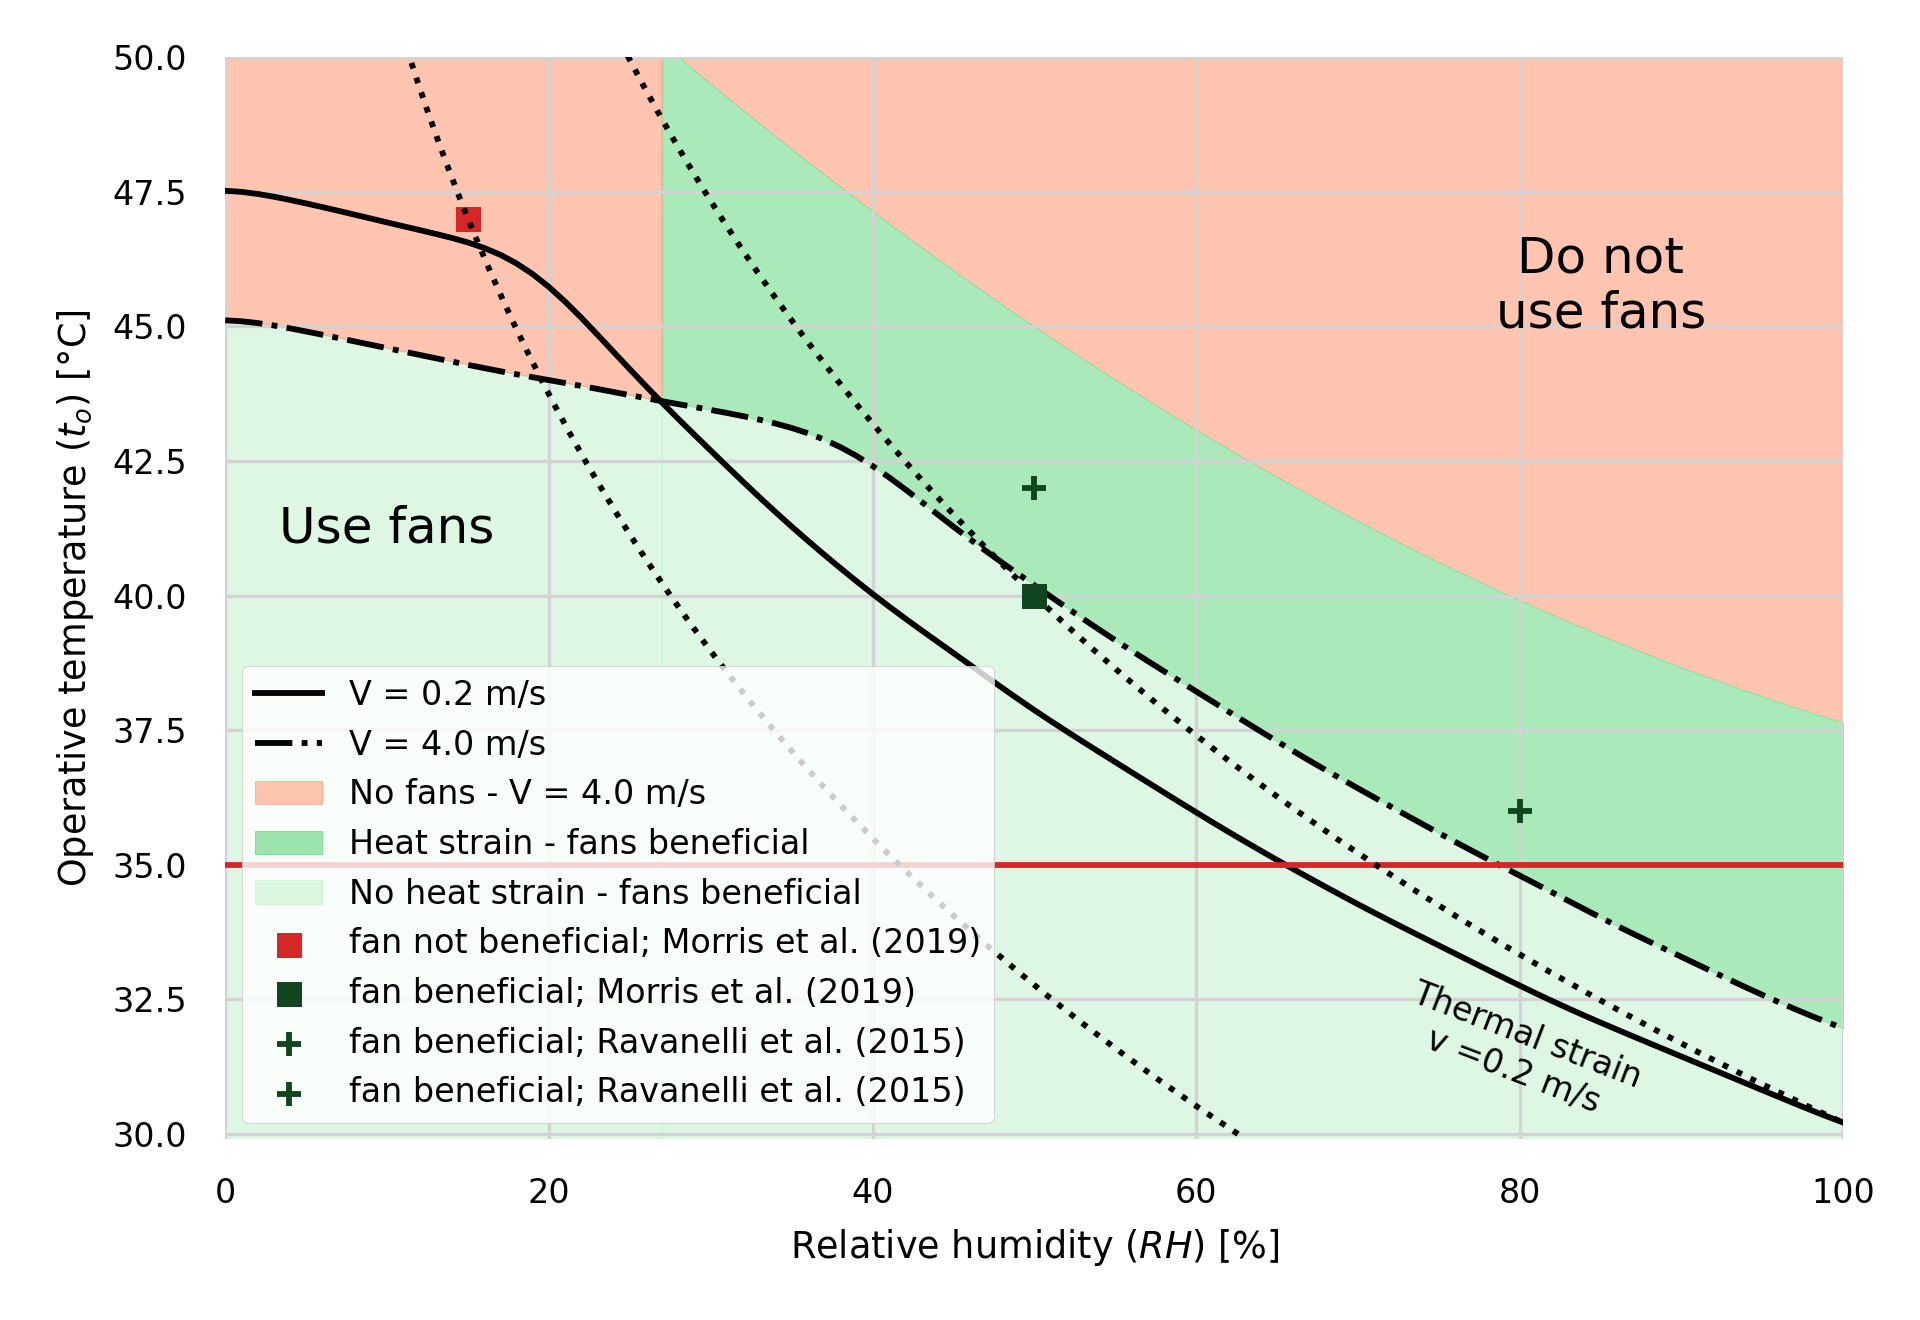
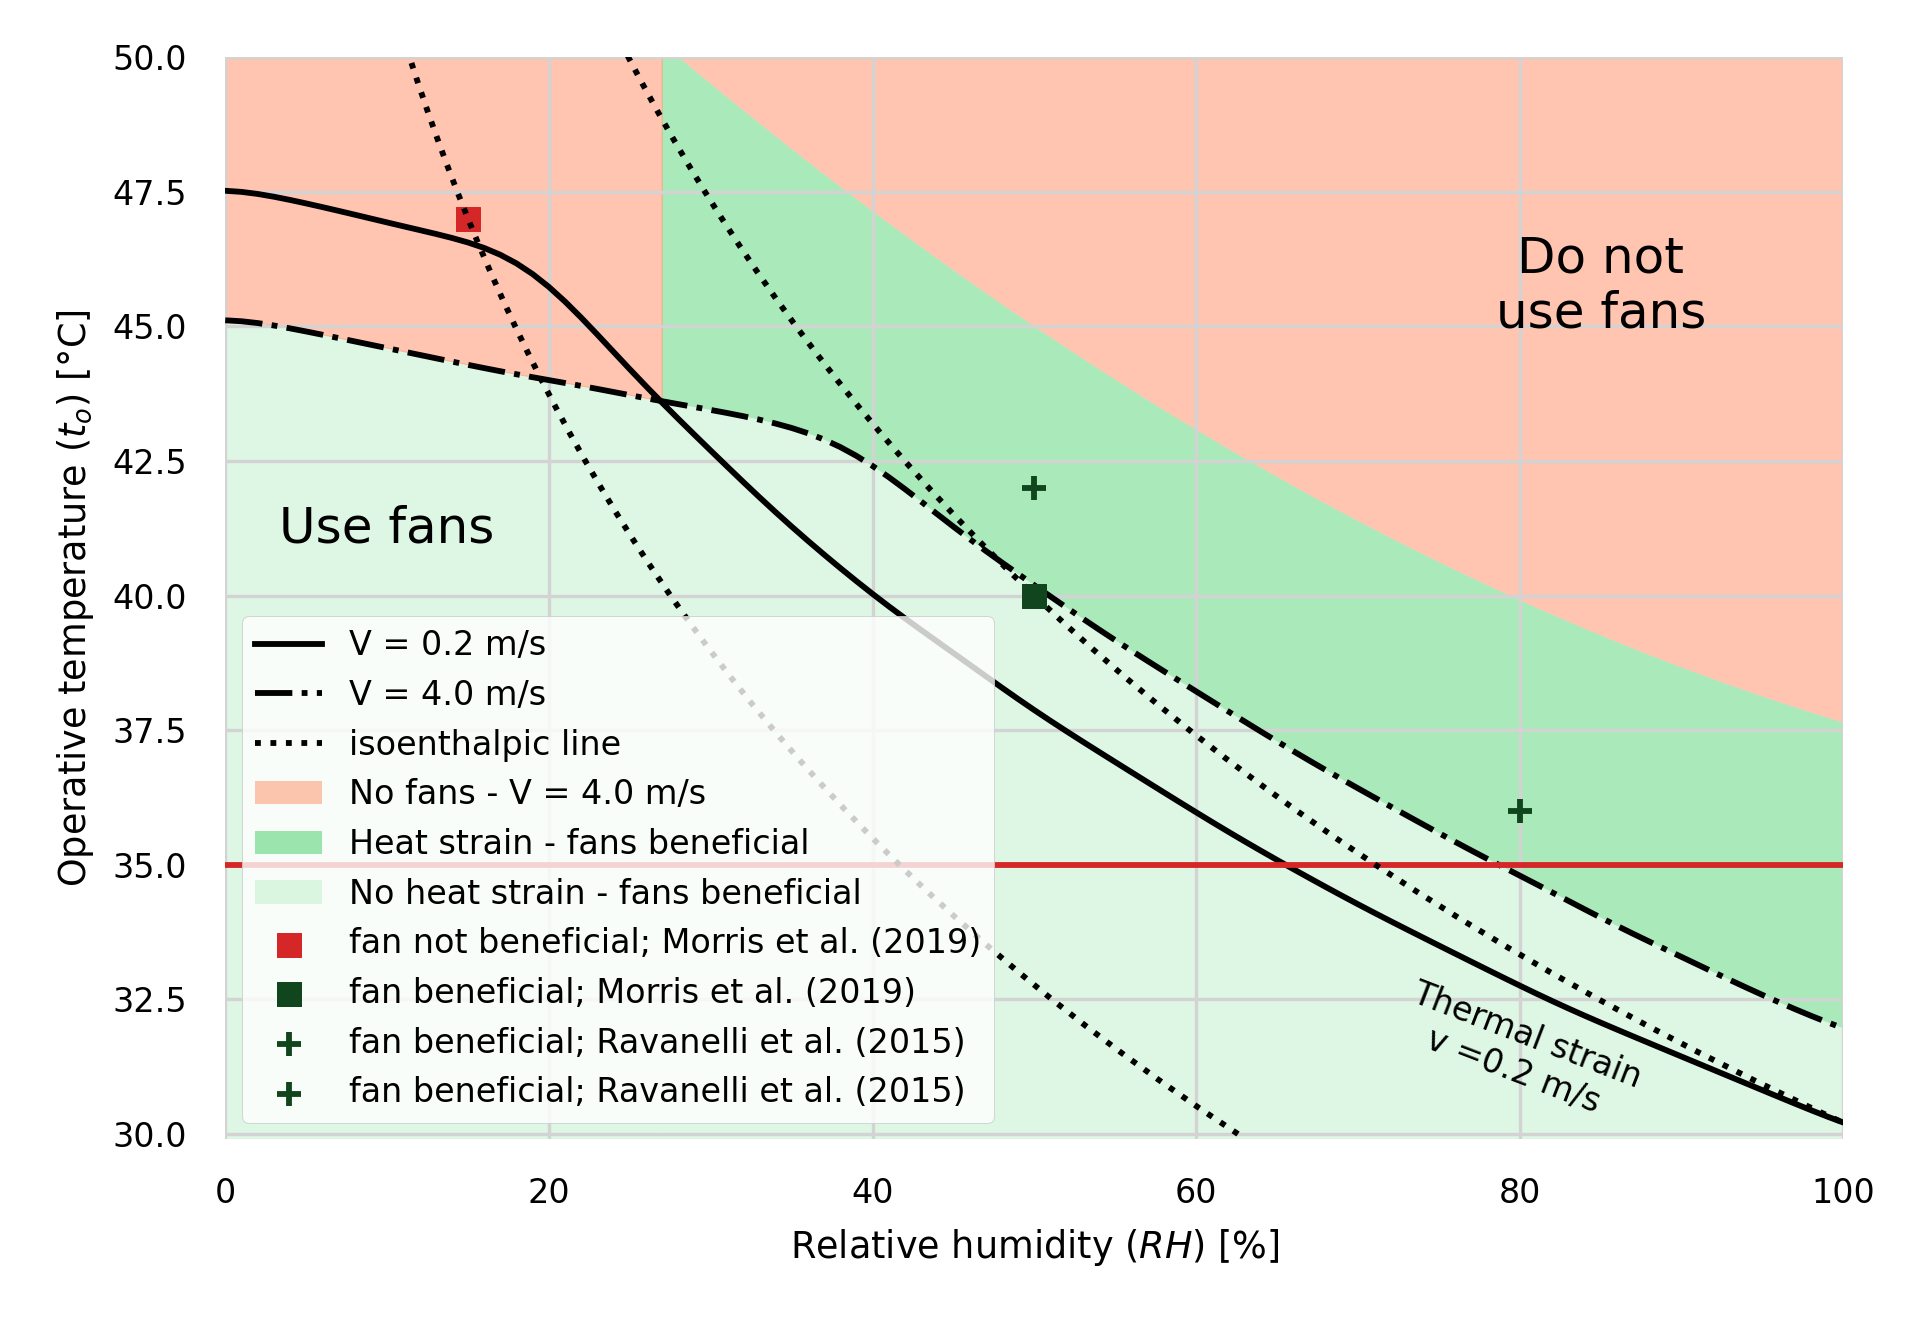
feat: plotted sweat rate using contour plot

Changed region(s): [[0.125, 0.4659, 0.5312, 0.5902]]

diff --git a/code/main.py b/code/main.py
@@ -7,7 +7,7 @@ import numpy as np
 import pandas as pd
 from pythermalcomfort.psychrometrics import p_sat
 from pythermalcomfort.models import phs, set_tmp
-import math
+from matplotlib.colors import DivergingNorm
 import seaborn as sns
 import os
 from scipy import optimize
@@ -660,8 +660,8 @@ class DataAnalysis:
 
         results = []
         for v in air_speeds:
-            for ta in np.arange(30, 50, 2):
-                for rh in np.arange(10, 100, 10):
+            for ta in np.arange(30, 51, 1):
+                for rh in np.arange(0, 101, 1):
                     r = use_fans_heatwaves(
                         ta,
                         ta,
@@ -678,33 +678,59 @@ class DataAnalysis:
 
         df_sweat = pd.DataFrame(results)
 
-        fig, axn = plt.subplots(1, 2, sharey=True)
-        cbar_ax = fig.add_axes([0.88, 0.15, 0.03, 0.75])
+        fig, axn = plt.subplots(1, 2, sharey=True, figsize=(fig_size["2c"], 4))
 
         for i, ax in enumerate(axn.flat):
             v = air_speeds[i]
             df = df_sweat[df_sweat["v"] == v]
-            sns.heatmap(
-                df.pivot("ta", "rh", "sweating_required").astype("int"),
-                annot=True,
-                cbar=i == 0,
+            df = df.pivot("ta", "rh", "sweating_required").astype("int")
+            title = r"$ m_{rsw, V = 0.2 m/s}$"
+            levels = range(0, 550, 50)
+            if i == 1:
+                df_low = df_sweat[df_sweat["v"] == air_speeds[0]]
+                df_low = df_low.pivot("ta", "rh", "sweating_required").astype("int")
+                df = df - df_low
+                title = (
+                    r"$\Delta m_{rsw} = m_{rsw, V = 0.8 m/s} - m_{rsw, V = 0.2 m/s}$"
+                )
+                levels = range(-50, 40, 10)
+
+            df = df.sort_index(ascending=False)
+
+            x, y = np.meshgrid(df.columns, df.index)
+
+            cs = ax.contourf(
+                x,
+                y,
+                df.values,
+                norm=DivergingNorm(0),
+                levels=levels,
+                cmap="RdBu_r",
+            )
+
+            fig.colorbar(
+                cs,
                 ax=ax,
-                fmt="d",
-                cbar_ax=None if i else cbar_ax,
-                cbar_kws={
-                    "label": chart_labels["sweat"],
-                },
-                annot_kws={"size": 8},
+                shrink=0.9,
             )
             ax.set(
                 xlabel=chart_labels["rh"],
+                xlim=(0, 100),
+                ylim=(30, 50),
                 ylabel=chart_labels["top"] if i == 0 else None,
-                title=r"$V$" + f" = {v} m/s",
+                title=title,
             )
+            [
+                ax.spines[x].set_color("lightgray")
+                for x in ["bottom", "top", "left", "right"]
+            ]
 
-        # cbar_ax.collections[0].colorbar.set_label("Hello")
+        plt.suptitle(chart_labels["sweat"])
 
-        fig.tight_layout(rect=[0, 0, 0.88, 1])
+        axn[0].text(90, 48.75, "A", size=12, ha="center", va="center")
+        axn[1].text(90, 48.75, "B", size=12, ha="center", va="center")
+
+        fig.tight_layout()
 
         if save_fig:
             plt.savefig(os.path.join(self.dir_figures, "sweat_rate.png"), dpi=300)
@@ -1887,15 +1913,9 @@ class DataAnalysis:
             zorder=200,
         )
 
-        # add legend
-        plt.legend(
-            facecolor="w",
-            loc="lower left",
-        )
-
         # plot enthalpy line
         reference_enthalpies = [100805.98, 73007.24]
-        for enthalpy in reference_enthalpies:
+        for ix, enthalpy in enumerate(reference_enthalpies):
             rh_const_enthalpy = []
             for tmp in self.ta_range:
                 hr = psychrolib.GetHumRatioFromEnthalpyAndTDryBulb(enthalpy, tmp)
@@ -1903,12 +1923,27 @@ class DataAnalysis:
                     psychrolib.GetRelHumFromHumRatio(tmp, hr, 101325) * 100
                 )
 
-            ax.plot(
-                rh_const_enthalpy,
-                self.ta_range,
-                c="k",
-                linestyle=":",
-            )
+            if ix == 0:
+                ax.plot(
+                    rh_const_enthalpy,
+                    self.ta_range,
+                    c="k",
+                    linestyle=":",
+                    label="isoenthalpic line",
+                )
+            else:
+                ax.plot(
+                    rh_const_enthalpy,
+                    self.ta_range,
+                    c="k",
+                    linestyle=":",
+                )
+
+        # add legend
+        plt.legend(
+            facecolor="w",
+            loc="lower left",
+        )
 
         ax.grid(c="lightgray")
         ax.xaxis.set_ticks_position("none")
@@ -2648,12 +2683,12 @@ if __name__ == "__main__":
         # "met_clo",
         # "summary_use_fans_weather",
         # "summary_use_fans_comparison_experimental",
-        "summary_use_fans_and_population_tdb_max",
+        # "summary_use_fans_and_population_tdb_max",
         # "world_map_population_weather",
         # "met_clo_v",
         # "table_list_cities",
         # "compare_hospers_ashrae_weather",
-        # "sweat_rate",
+        "sweat_rate",
         # "phs",
     ]
 
